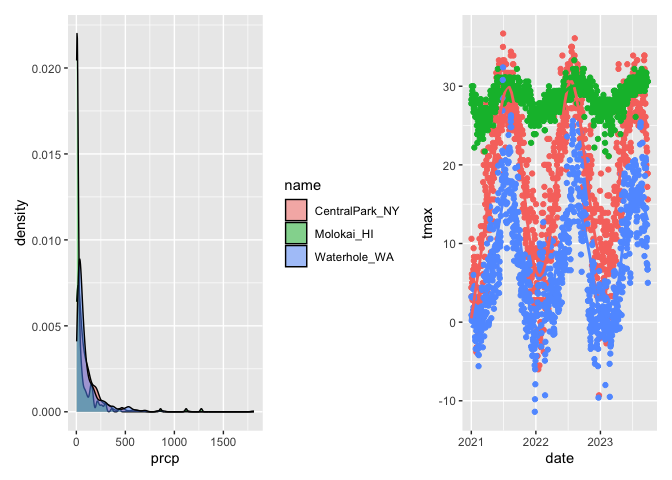
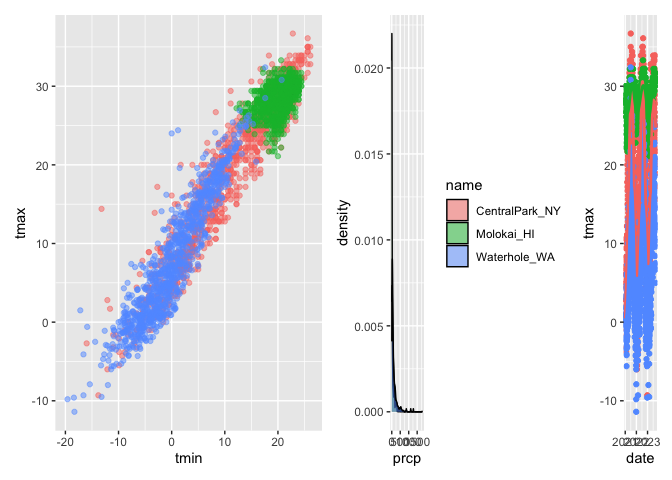
Data manipulation as part of plotting

diff --git a/viz_ii.md b/viz_ii.md
@@ -232,7 +232,7 @@ What happens when you want multipanel plots but cant facet?
 tmax_tmin_p =
   weather_df %>% 
     ggplot(aes(x = tmin, y = tmax, color = name)) +
-    geom_density(alpha = .5) +
+    geom_point(alpha = .5) +
     theme(legend.position = "none")
   
 prcp_dens_p =
@@ -248,15 +248,50 @@ tmax_date_p =
   geom_smooth(se = FALSE) +
   theme(legend.position = "none")
 
-(prcp_dens_p + tmax_date_p)
+tmax_tmin_p + (prcp_dens_p + tmax_date_p)
 ```
+
+    ## Warning: Removed 30 rows containing missing values (`geom_point()`).
 
     ## `geom_smooth()` using method = 'gam' and formula = 'y ~ s(x, bs = "cs")'
 
     ## Warning: Removed 30 rows containing non-finite values (`stat_smooth()`).
-
-    ## Warning: Removed 30 rows containing missing values (`geom_point()`).
+    ## Removed 30 rows containing missing values (`geom_point()`).
 
 ![](viz_ii_files/figure-gfm/unnamed-chunk-11-1.png)<!-- --> The last
-line is how you join the datasets so that they display together - the
-first tmax df i made will not view in plots for some reason
+line is how you join the plots so that they display together in the
+plots viewer and can be exported together(i think?)
+
+## Interplay between data manipulation and plotting
+
+``` r
+weather_df %>% 
+  mutate(
+    name = factor(name),
+    name = forcats::fct_relevel(name, c("Molokai_HI"))
+  ) %>% 
+  ggplot(aes(x = name, y = tmax, fill = name)) +
+  geom_violin(alpha = .5)
+```
+
+    ## Warning: Removed 30 rows containing non-finite values (`stat_ydensity()`).
+
+![](viz_ii_files/figure-gfm/unnamed-chunk-12-1.png)<!-- -->
+
+What if I wanted densities for both tmin and tmax?
+
+``` r
+weather_df %>% 
+  pivot_longer(
+    tmax:tmin,
+    names_to = "observation",
+    values_to = "temperatures"
+  ) %>% 
+  ggplot(aes(x = temperatures, fill = observation)) + 
+  geom_density(alpha = .5) +
+  facet_grid(. ~ name)
+```
+
+    ## Warning: Removed 60 rows containing non-finite values (`stat_density()`).
+
+![](viz_ii_files/figure-gfm/unnamed-chunk-13-1.png)<!-- -->
